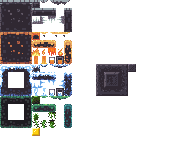
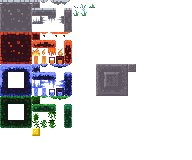
plantjes!

Changed region(s): [[0.0, 0.0, 0.5, 0.8125], [0.5, 0.375, 0.7188, 0.625]]

diff --git a/src/game.rs b/src/game.rs
@@ -624,6 +624,11 @@ impl Game {
             (40, 24), // bottom vertical spike/lava etc.
             (48, 24), // top vertical spike/lava etc.
             (56, 24), // top vertical spike/lava etc. filled
+            (72, 0),  // small grass
+            (80, 0),  // medium grass
+            (88, 0),  // small plant
+            (72, 8),  // medium plant
+            (80, 8),  // flower
         ];
         let tile_flags_per_color = vec![
             TileFlags::COLLISION,
@@ -661,6 +666,11 @@ impl Game {
             TileFlags::SPIKE,
             TileFlags::SPIKE | TileFlags::COLLISION,
             TileFlags::SPIKE | TileFlags::COLLISION,
+            TileFlags::empty(),
+            TileFlags::empty(),
+            TileFlags::empty(),
+            TileFlags::empty(),
+            TileFlags::empty(),
         ];
 
         let tile_set: TileSet = build_tileset(
